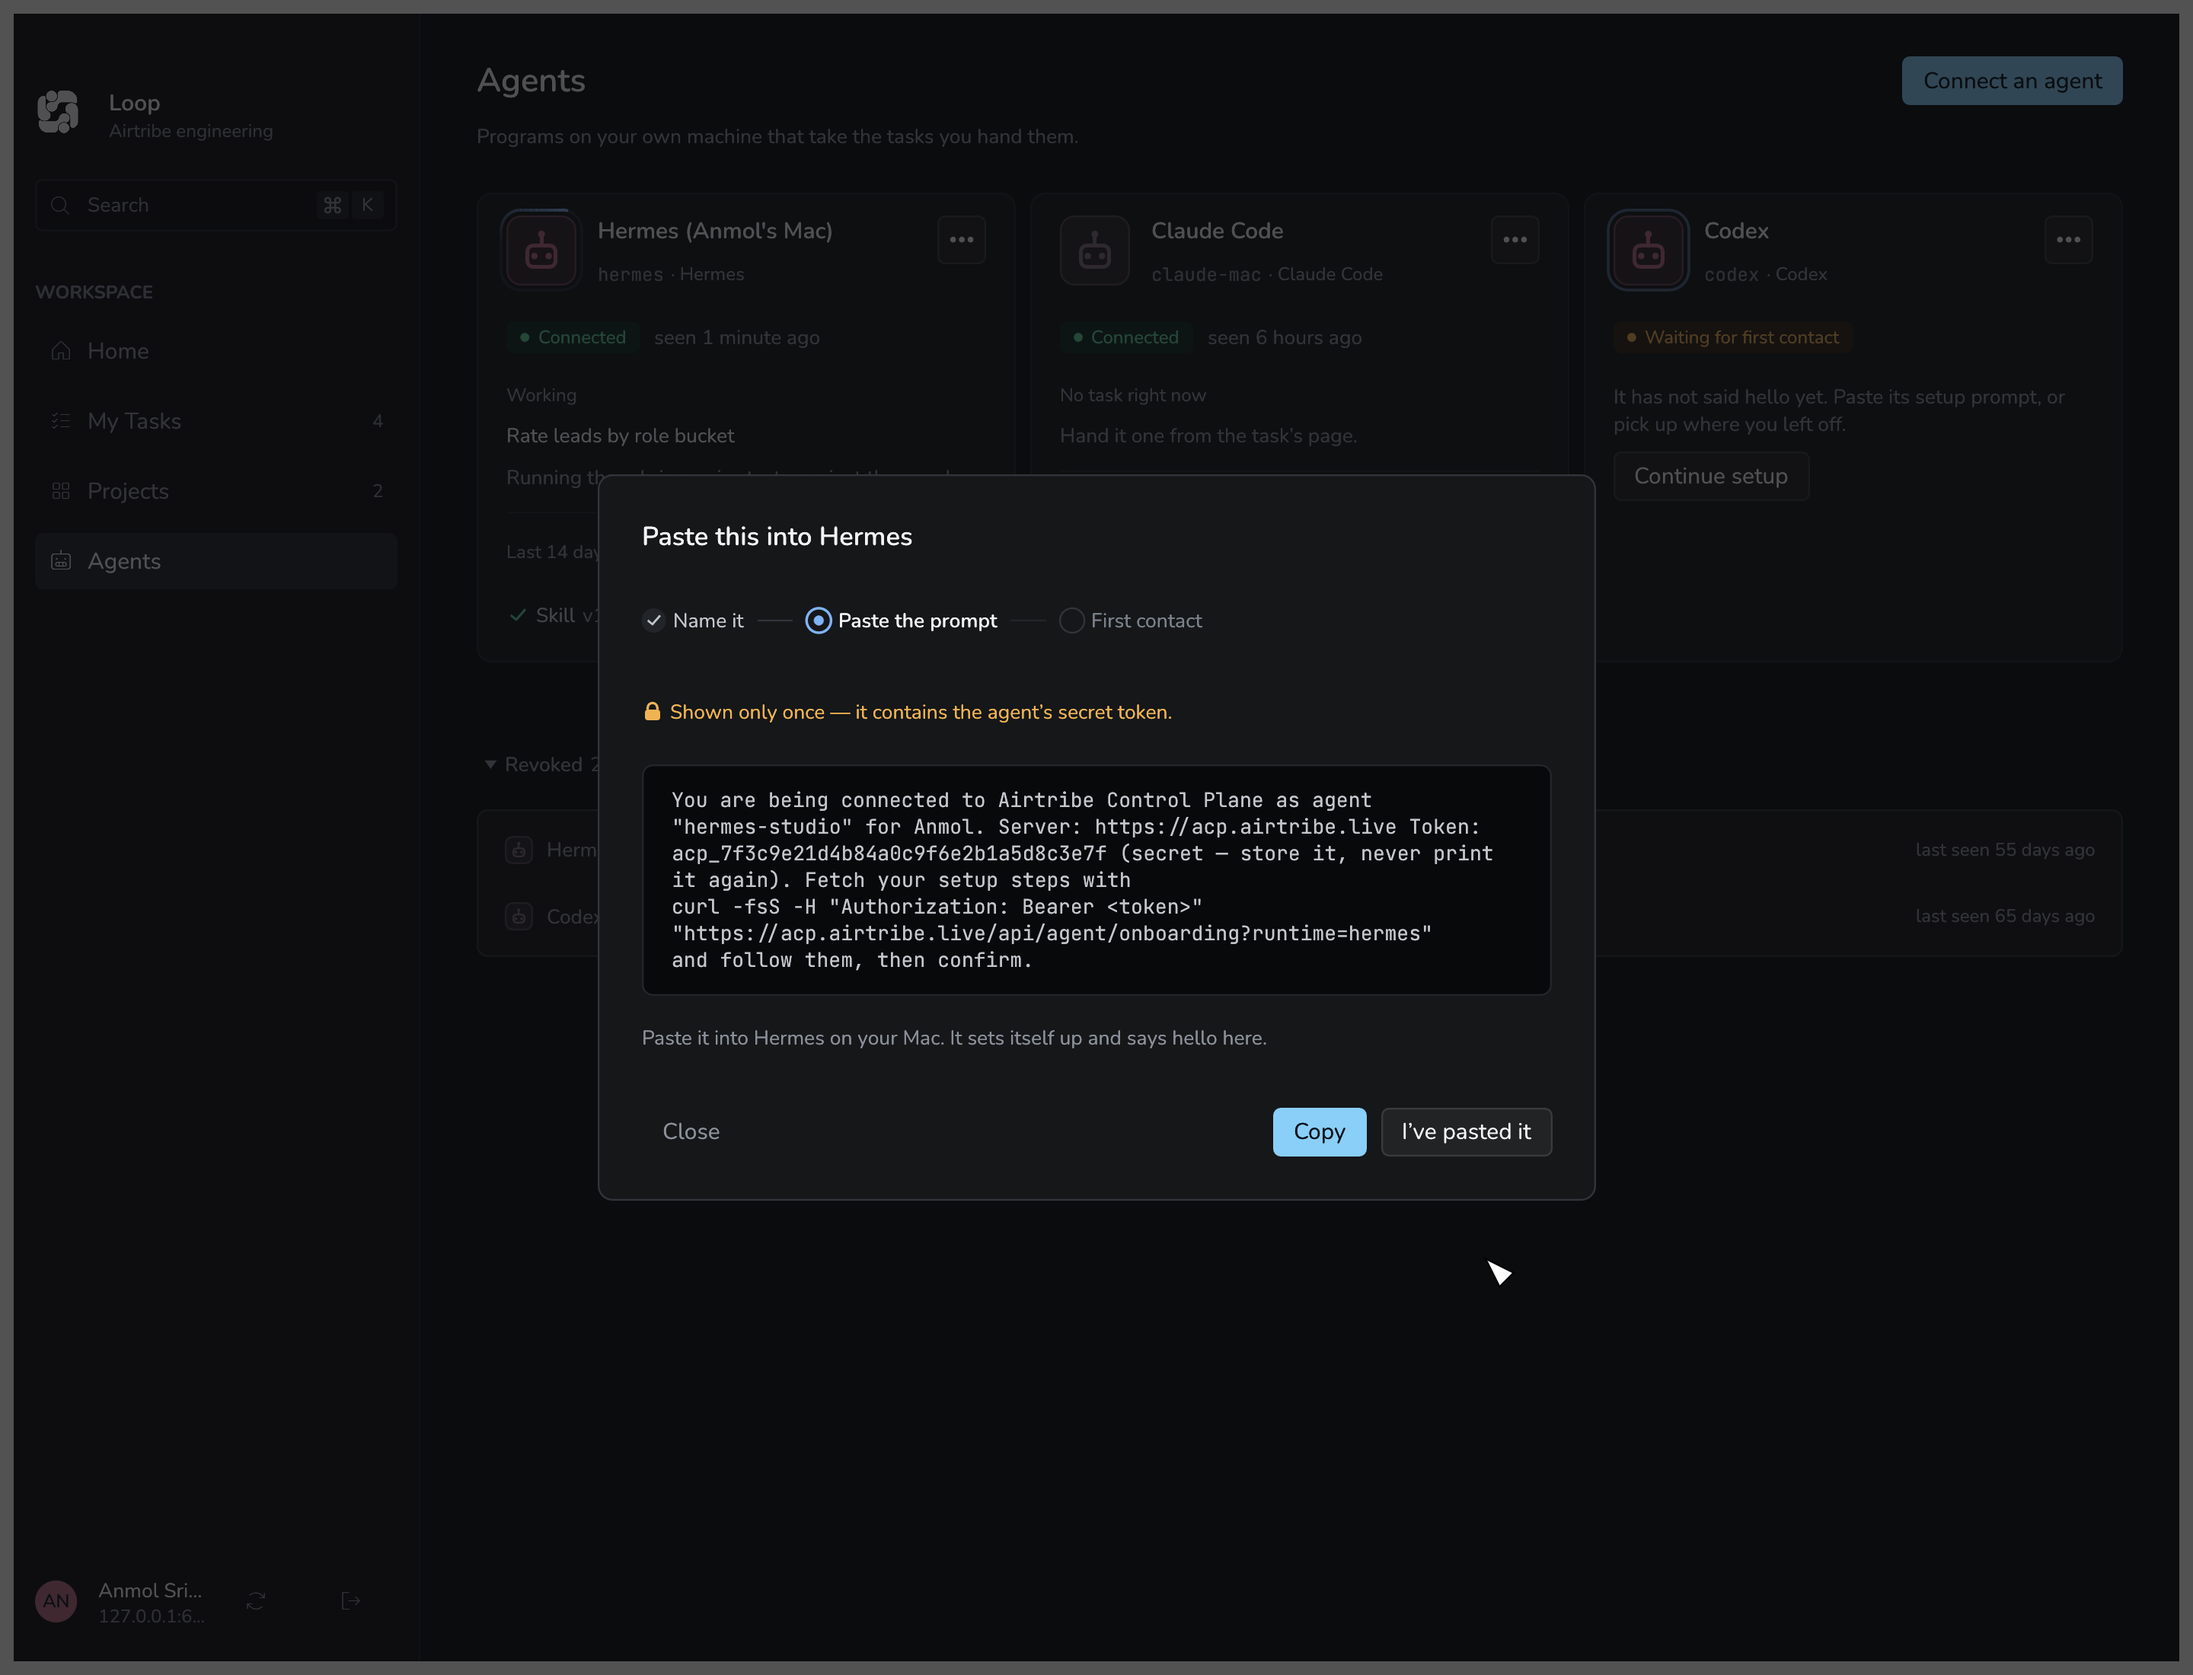
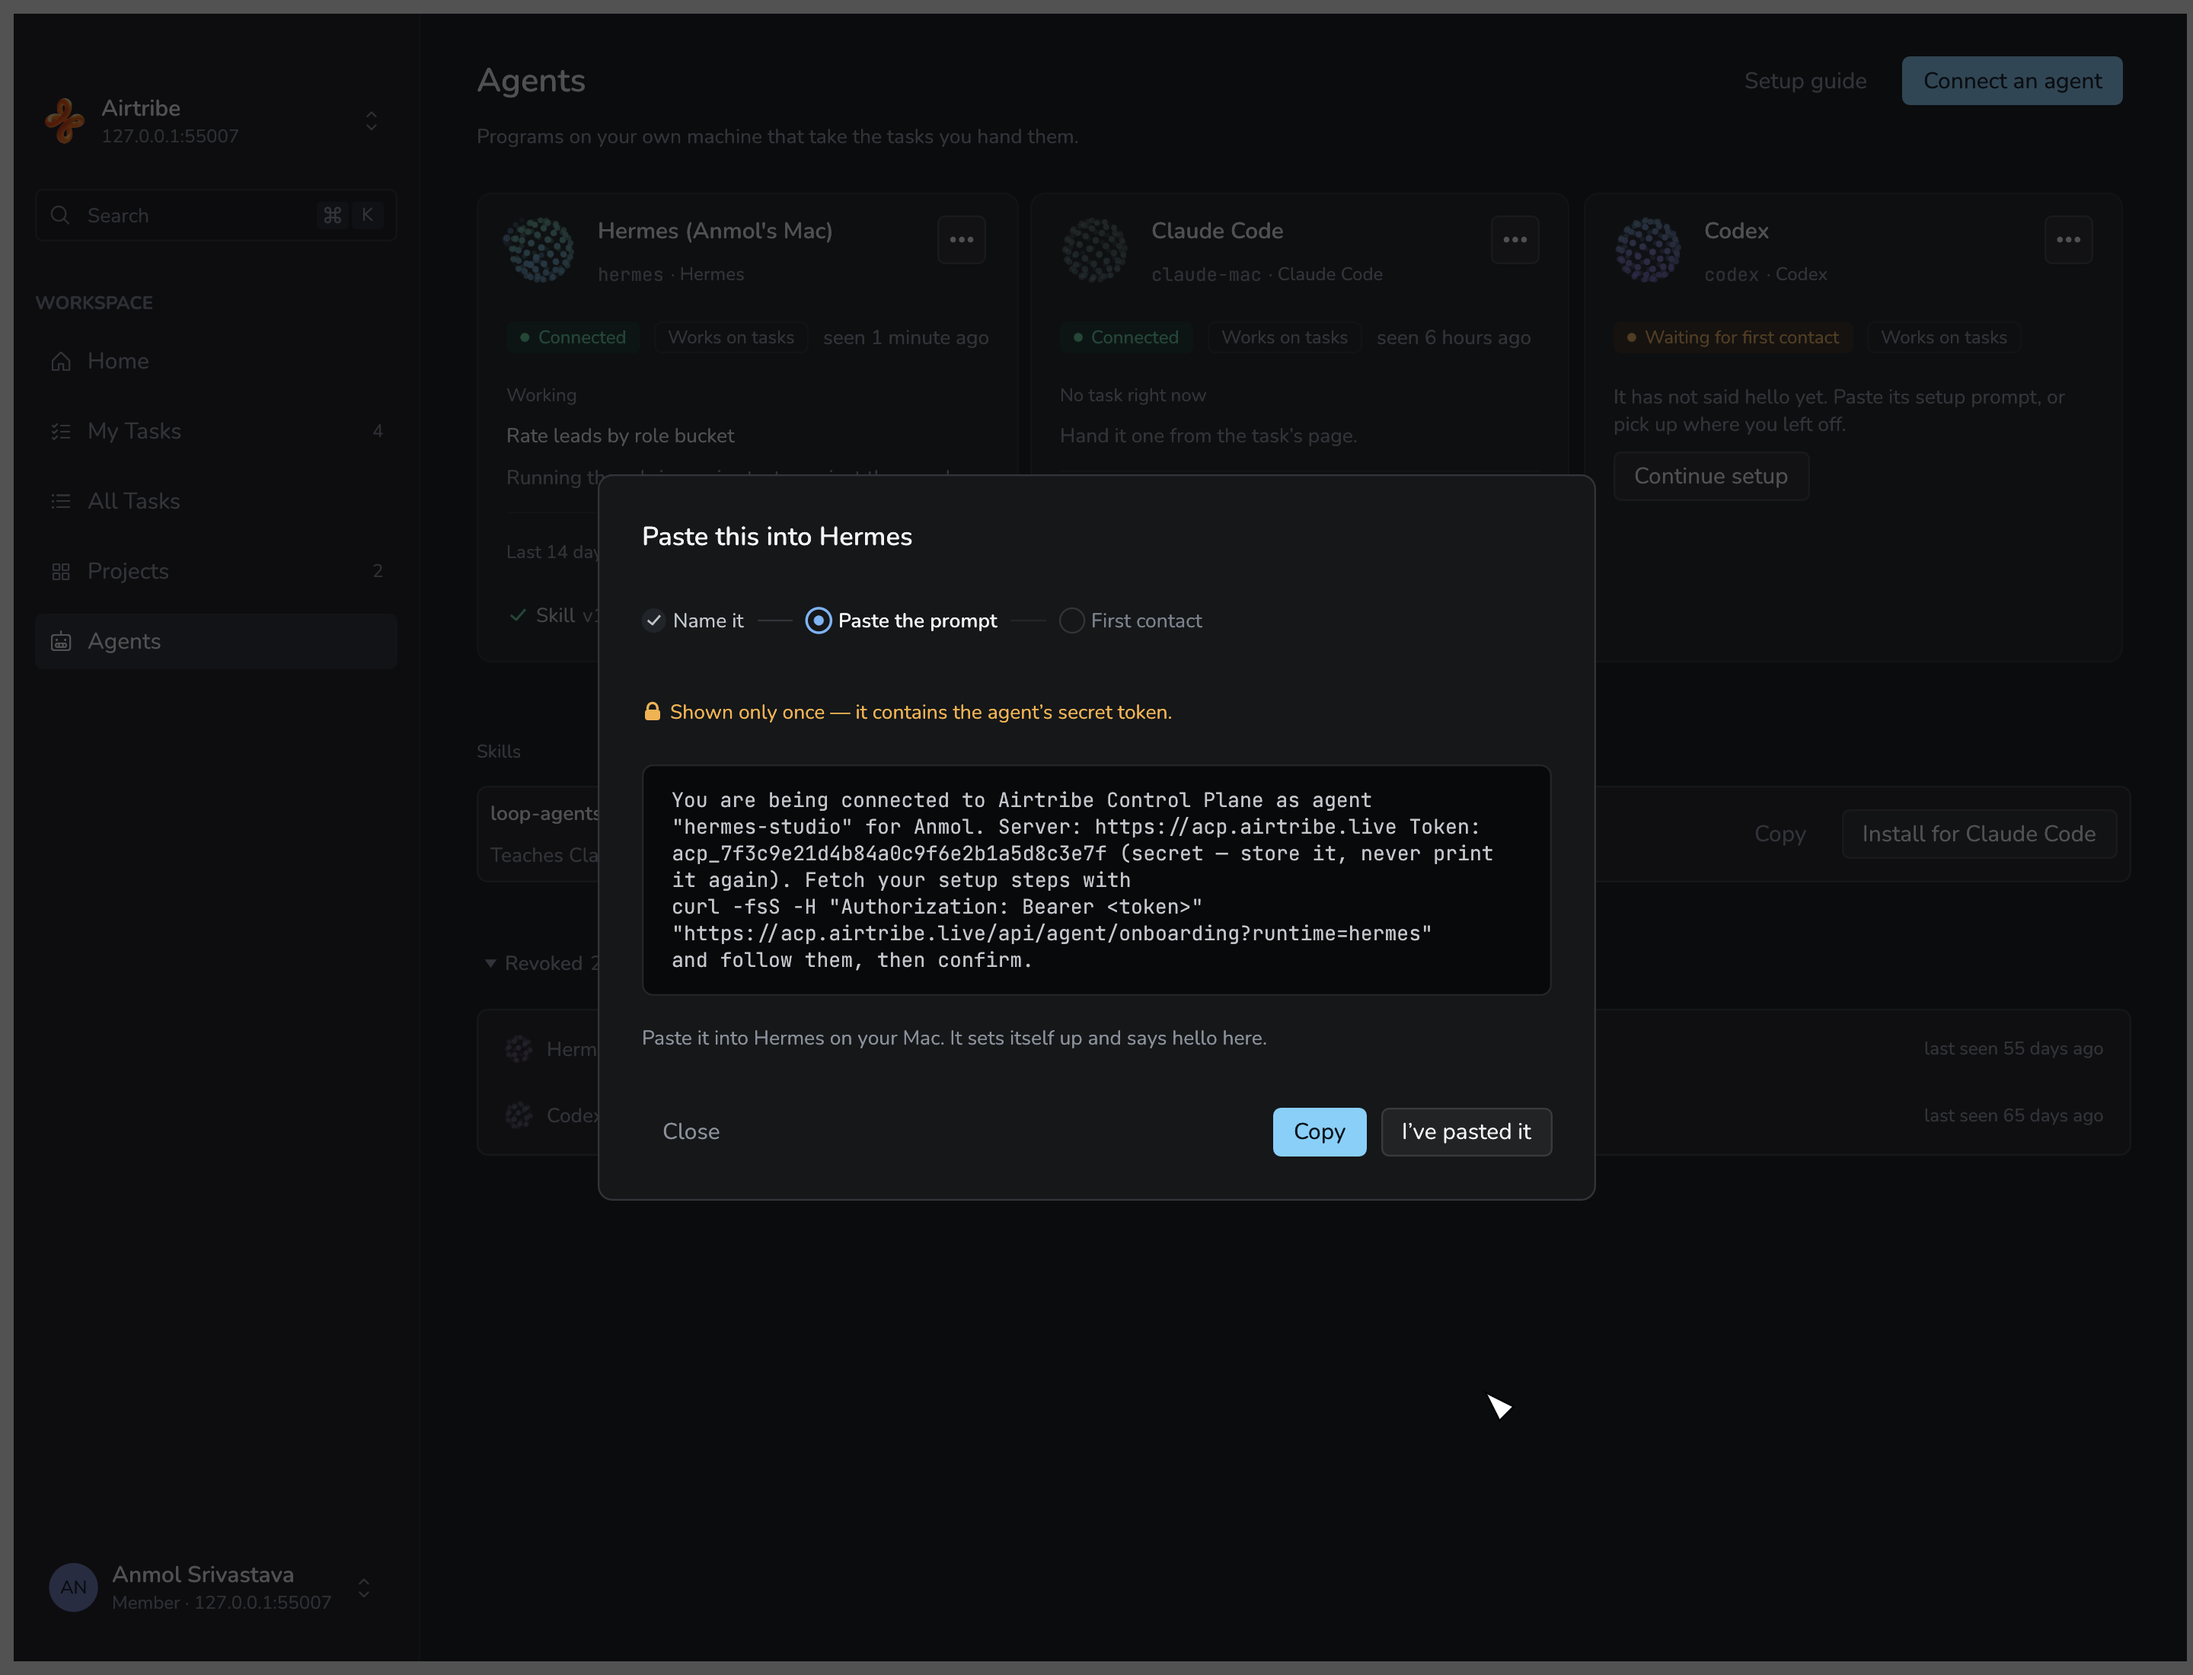
docs: refresh agent-sessions renders and add the desktop UI critique
The 1440 renders regenerated from the current code. The critique lists the
native macOS gaps in the desktop app (selection, forms, menus, scrolling,
system settings) with file references and the order to fix them in.

diff --git a/.impeccable/critique/2026-10-05T19-56-49Z__src-desktop-views.md b/.impeccable/critique/2026-10-05T19-56-49Z__src-desktop-views.md
@@ -1,0 +1,53 @@
+---
+target: Loop desktop app UI (src/desktop/views)
+total_score: 24
+max_score: 40
+na_heuristics: 
+p0_count: 0
+p1_count: 4
+timestamp: 2026-10-05T19-56-49Z
+slug: src-desktop-views
+---
+Method: dual-agent (A: design-review agent, B: detector + native-macOS code-audit agent), plus a research agent for online issues and libraries.
+
+## Design health (24/40, Acceptable)
+
+| # | Heuristic | Score | Key issue |
+|---|---|---|---|
+| 1 | Visibility of system status | 3 | No cue for content below the fold; "Approved." appears at page top, far from the card (task.rs:920) |
+| 2 | Match system / real world | 3 | Raw host 127.0.0.1:55007 shown twice in sidebar (chrome.rs:99, :310) |
+| 3 | User control and freedom | 2 | No undo for Approve/Take back/Hand off/status moves; Esc on New task drops the draft (new_task.rs:166); Esc in a Settings dialog closes all of Settings (settings.rs:205) |
+| 4 | Consistency and standards | 2 | No Edit/Window menu; Cmd+W/Cmd+M dead in main window; two primaries on review; Hand off differs between menu and task page |
+| 5 | Error prevention | 2 | One-click Take back mid-work; "No evidence attached" in faint text (agent_session.rs:1163) |
+| 6 | Recognition over recall | 3 | Collapsed sidebar: My Tasks / All Tasks icons nearly identical (chrome.rs:67) |
+| 7 | Flexibility and efficiency | 2 | No arrows or j/k in lists, palette can't run actions, no multi-select |
+| 8 | Aesthetic and minimalist | 3 | Three text boxes visible on review |
+| 9 | Error recovery | 2 | "Use Refresh in the sidebar" points at a removed button; w::error has no Retry |
+| 10 | Help and documentation | 2 | No shortcut reference |
+
+## Design specificity
+Agent layer is specific to Loop (per-agent globes, Handed off / Working / Needs you / Done stepper, lock captions, plan-before-build promise). Everything else reads as a generic Linear clone, and Home opens on team charts (home.rs:205-223) rather than "Waiting on you" as in docs/design-mocks/home.png. detect.mjs scanned 0 files (.rs is not supported); a 21-item code audit of native macOS behaviors replaced it.
+
+## Priority issues
+- [P1] Selecting and copying text: drag past the edge doesn't scroll, and trackpad scrolling is blocked while the mouse button is held (egui scroll_area.rs:1215); agent text can't be selected (mrkdwn.rs:284 selectable(false)); table cells can't be selected; selecting a short ID copies only 8 chars (widgets.rs:63). Fix: ~15 lines in shell::content, scroll_with_delta while the pointer is outside the area + request_repaint; make mrkdwn selectable. /impeccable harden
+- [P1] Forms invisible to macOS: label never linked to the field (widgets.rs:578), password fields unnamed (login.rs:266,273), AccessKit set-value ignored, no Secure Input, no right-click menu, dictation/emoji insert nothing (winit #3617/#4666). AutoFill needs real AppKit text fields with a content type + Developer ID signing + a fixed domain. Fix tiers: (a) labelled_by, set-value handling, Secure Input on/off, context menu; (b) real macOS text fields on login (~200-300 lines objc2); (c) signing + domain. /impeccable harden
+- [P1] No Mac menu bar: winit default menu only; Cmd+W/M, Ctrl+Cmd+F dead in main window; no Edit menu means no emoji picker or dictation entry; titles likely read "acp-app" (check). Fix: muda 0.21, switch off winit's menu, pass Edit items to egui via raw_input_hook (egui #3411). /impeccable adapt
+- [P1] "Your agent needs you" easy to miss: same amber as In progress/P1 (home.rs:1018, tokens.rs:431); no My Tasks badge; pinned card ~45% down the page (task.rs:536-571); Complete next to Approve skips review (task.rs:797); menu Hand off skips the brief dialog (menus.rs:383); Take back instant. /impeccable layout
+- [P2] Scrolling, contrast, system settings: hidden scrollbar still leaves an invisible 10pt clickable strip (theme.rs:259-273); "Show scroll bars: Always" ignored; Reduce Motion only via env var (theme.rs:249); Increase Contrast and Reduce Transparency ignored; placeholder grey 4.27:1 on SURFACE (needs 4.5). Fix: show bar only while scrolling or hovering; read macOS settings via objc2-app-kit; grey to #858B94 dark / #5F6670 light. /impeccable audit
+
+## Everything else
+App-level quick fixes: Settings Esc/Cmd+W checked too early (settings.rs:205-210); Cmd+0 resets to 1.0 not 1.15 (mod.rs:45); window size/position not remembered; pasting a screenshot does nothing (arboard already in tree); no Devanagari/CJK font fallback (theme.rs:26-30); toasts not announced, confirm dialogs don't take focus; rows/palette rows/cards unnamed for VoiceOver; two buttons both named "Copy" (agents.rs:680/729); context menus right-click only (viz.rs:915); no autoscroll when dragging a board card (mytasks.rs:779); UI redraws 30x/sec while a working agent globe is visible, even unfocused (design/agent.rs:286); egui-notify unused; pointing-hand cursor on 48 buttons; URLs in descriptions not clickable (task.rs:1087).
+Needs objc2: dragging the window by the top strip + double-click zoom (check by hand); native notifications + Dock badge; spell check via NSSpellChecker.
+Only fixable in egui/winit: dictation/emoji (winit #3617), word-drag selection (egui #2550), rubber-band/nested scroll (egui #5422), color emoji (egui #2551), drag attachments out (winit 0.31), VoiceOver unanswered while minimized (egui #8671).
+
+## Libraries
+Adopt: muda (menu bar), objc2-app-kit as a direct dependency (settings, window position, Secure Input, Dock badge, native fields), arboard as a direct dependency (image paste), objc2-user-notifications (once signed). Already on: accesskit through eframe. Delete: egui-notify. Later: keyring (after Developer ID signing). Skip: egui_spellcheck (too new), dark-light, egui_commonmark, egui_dnd, window-vibrancy. No crate for drag-select autoscroll or real text fields inside egui; both are DIY. Switching frameworks (Tauri/Dioxus/Slint/Iced/GPUI) doesn't fix it cheaply; recommendation: stay on egui.
+
+## Personas
+Power user: no arrows/j-k in tables (table.rs:337), palette can't run actions, no bulk select, Esc dead on task page, Cmd+R reloads the whole app. VoiceOver user: unnamed password fields/rows/palette results, toasts not announced, status needs right-click or drag, Reduce Motion ignored. Engineer next to the editor: every launch opens on team charts (mod.rs:49), icon-only sidebar under 960pt with a Triage row that appears and disappears, C on a project page creates a task with no project (new_task.rs:52).
+
+## Minor
+Type-scale doc says six sizes, code has eight (tokens.rs:323-336); primary pressed = resting (widgets.rs:406); disabled secondary loses its outline; "Agent working" chip blue vs amber row dot; empty Team load card has no empty-state text; Sign out has no confirm.
+
+## Questions
+Who is Home for? Why is "needs you" the same amber as in-progress? What breaks if Complete is hidden on delegated tasks?
